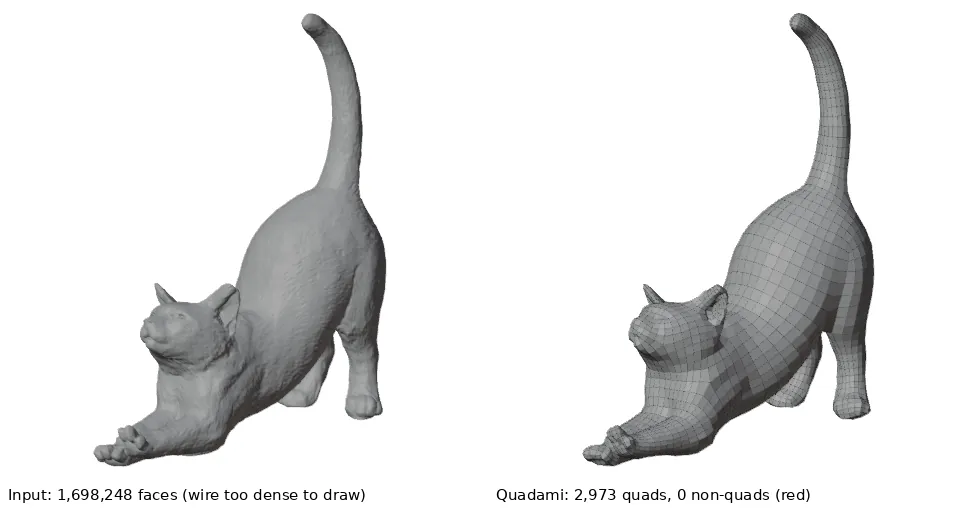
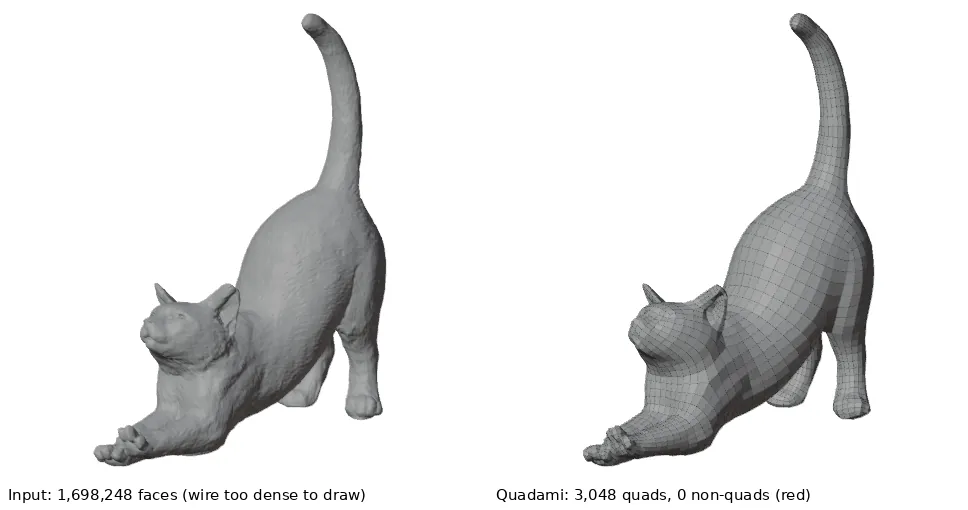
docs(docs): gallery rebuilt on master 6152d16; spike tips in the 0.2.0 limits
Claude-Session: https://claude.ai/code/session_01GKUM9k3d9aWsqNKJYnxYLx

diff --git a/docs/gallery/README.md b/docs/gallery/README.md
@@ -18,23 +18,23 @@ or pentagons, and a brush-folded spot is smoothed over rather than kept. The
 
 <!-- gallery-table:begin (generated by tools/gallery/gallery.py) -->
 
-Generated from `origin/master` = `91f3c48` by `tools/gallery/gallery.py`, Quality resolution, default settings unless noted, on x86_64 with 4 cores (time is wall time of the plain input there; a laptop differs). Columns after the bar: range over the plain input and 4 inputs moved by one float32 ulp, as Blender hands them over (the noise rule in tools/bench/README.md). Shape error: 99th percentile of the distance from the input to the output, in % of the input's diagonal (tools/bench/metrics.py; the panel does not show it).
+Generated from `master` = `6152d16` by `tools/gallery/gallery.py`, Quality resolution, default settings unless noted, on x86_64 with 4 cores (time is wall time of the plain input there; a laptop differs). Columns after the bar: range over the plain input and 4 inputs moved by one float32 ulp, as Blender hands them over (the noise rule in tools/bench/README.md). Shape error: 99th percentile of the distance from the input to the output, in % of the input's diagonal (tools/bench/metrics.py; the panel does not show it).
 
 | Mesh | Target | Quads | Non-quads | Folded faces | Holes | Time | Quads over 5 | Non-quads over 5 | Folded over 5 | Holes over 5 | Shape error over 5 |
 |---|---:|---:|---:|---:|---:|---:|---:|---:|---:|---:|---:|
-| [Spot (clean organic)](#spot-clean-organic) | 2,000 | 2,029 | 0 | 0 | 0 | 1.2 s | 2,029 | 0 | 0 | 0 | 0.1 % |
-| [Koala (organic sculpt)](#koala-organic-sculpt) | 3,000 | 2,962 | 0 | 0 | 0 | 2.9 s | 2,902-2,996 | 0 | 0 | 0 | 0.0 % |
-| [Wing nut (hard surface)](#wing-nut-hard-surface) | 2,000 | 2,024 | 0 | 0 | 0 | 0.9 s | 2,024 | 0 | 0 | 0 | 0.0 % |
-| [Boat (panels and sharp rims)](#boat-panels-and-sharp-rims) | 3,000 | 3,013 | 6 | 3 | 0 | 3.3 s | 2,979-3,030 | 0-6 | 0-3 | 0 | 0.0 % |
-| [Demosthenes (photoscan, open base)](#demosthenes-photoscan-open-base) | 5,000 | 5,010 | 0 | 0 | n/a (open) | 5.6 s | 4,950-5,010 | 0 | 0-8 | 0 | 0.1 % |
-| [Dyntopo sculpt (procedural)](#dyntopo-sculpt-procedural) | 5,000 | 4,894 | 0 | 0 | 0 | 7.1 s | 4,894-5,076 | 0 | 0 | 0 | 0.0 % |
-| [Sculpted box with folded input](#sculpted-box-with-folded-input) | 2,000 | 1,929 | 0 | 1 | 0 | 2.1 s | 1,929-1,982 | 0 | 1-3 | 0 | 0.2 % |
-| [Same box, Repair Folds on](#same-box-repair-folds-on) | 2,000 | 1,963 | 0 | 0 | 0 | 2.6 s | 1,957-1,972 | 0 | 0 | 0 | 0.2 % |
-| [Arming sword at 1,000 quads (thin parts)](#arming-sword-at-1000-quads-thin-parts) | 1,000 | 831 | 0 | 10 | 0 | 1.9 s | 820-883 | 0 | 3-29 | 0 | 2.0 %-8.1 % |
-| [Same sword at 3,000 quads](#same-sword-at-3000-quads) | 3,000 | 2,846 | 0 | 11 | 0 | 3.9 s | 2,825-2,887 | 0 | 10-14 | 0 | 1.0 %-1.1 % |
-| [Cat (dense sculpt, 1.7M triangles)](#cat-dense-sculpt-17m-triangles) | 3,000 | 2,973 | 0 | 0 | 0 | 12.4 s | 2,925-3,082 | 0 | 0 | 0 | 0.1 % |
-| [Hammer (raw scan)](#hammer-raw-scan) | 3,000 | 2,946 | 0 | 0 | 0 | 1.9 s | 2,938-2,954 | 0 | 0 | 0 | 0.0 % |
-| [Plane (thin wings)](#plane-thin-wings) | 3,000 | 3,030 | 0 | 0 | 0 | 1.4 s | 3,030 | 0 | 0 | 0 | 0.0 % |
+| [Spot (clean organic)](#spot-clean-organic) | 2,000 | 2,029 | 0 | 0 | 0 | 1.7 s | 2,029 | 0 | 0 | 0 | 0.1 % |
+| [Koala (organic sculpt)](#koala-organic-sculpt) | 3,000 | 2,962 | 0 | 0 | 0 | 3.6 s | 2,902-2,996 | 0 | 0 | 0 | 0.0 % |
+| [Wing nut (hard surface)](#wing-nut-hard-surface) | 2,000 | 1,974 | 0 | 0 | 0 | 1.1 s | 1,974 | 0 | 0 | 0 | 0.0 % |
+| [Boat (panels and sharp rims)](#boat-panels-and-sharp-rims) | 3,000 | 2,984 | 0 | 0 | 0 | 3.9 s | 2,984-3,037 | 0-6 | 0-3 | 0 | 0.0 % |
+| [Demosthenes (photoscan, open base)](#demosthenes-photoscan-open-base) | 5,000 | 5,025 | 0 | 0 | n/a (open) | 6.7 s | 4,829-5,066 | 0 | 0-8 | 0 | 0.1 % |
+| [Dyntopo sculpt (procedural)](#dyntopo-sculpt-procedural) | 5,000 | 5,009 | 0 | 0 | 0 | 9.8 s | 4,961-5,095 | 0 | 0 | 0 | 0.0 % |
+| [Sculpted box with folded input](#sculpted-box-with-folded-input) | 2,000 | 1,923 | 0 | 1 | 0 | 3.0 s | 1,872-1,926 | 0 | 0-4 | 0 | 0.2 % |
+| [Same box, Repair Folds on](#same-box-repair-folds-on) | 2,000 | 2,028 | 0 | 1 | 0 | 3.6 s | 2,022-2,060 | 0 | 1-2 | 0 | 0.2 % |
+| [Arming sword at 1,000 quads (thin parts)](#arming-sword-at-1000-quads-thin-parts) | 1,000 | 785 | 0 | 16 | 0 | 2.6 s | 785-849 | 0-20 | 6-18 | 0 | 2.1 %-6.0 % |
+| [Same sword at 3,000 quads](#same-sword-at-3000-quads) | 3,000 | 2,841 | 0 | 5 | 0 | 5.0 s | 2,841-2,952 | 0-2 | 5-17 | 0 | 1.0 %-1.2 % |
+| [Cat (dense sculpt, 1.7M triangles)](#cat-dense-sculpt-17m-triangles) | 3,000 | 3,048 | 0 | 0 | 0 | 16.1 s | 2,985-3,088 | 0 | 0 | 0 | 0.1 % |
+| [Hammer (raw scan)](#hammer-raw-scan) | 3,000 | 2,946 | 0 | 0 | 0 | 3.2 s | 2,938-2,954 | 0 | 0 | 0 | 0.0 % |
+| [Plane (thin wings)](#plane-thin-wings) | 3,000 | 3,041 | 0 | 0 | 0 | 2.2 s | 3,041 | 0 | 0 | 0 | 0.0 % |
 
 ### Spot (clean organic)
 
@@ -62,7 +62,7 @@ Panel rows flagged: none.
 
 ![Boat (panels and sharp rims): input left, Quadami output right](img/boat.webp)
 
-Panel rows flagged: Non-quads: 6; Folded faces: 3.
+Panel rows flagged: none.
 
 > Panel: Folded input: 4 faces in 2 spots, where the surface folds over itself. The quads there may come out messy or with holes.
 
@@ -73,7 +73,7 @@ Panel rows flagged: Non-quads: 6; Folded faces: 3.
 Panel rows flagged: Handles: 3 lost.
 
 > Panel: Output has 3 handles fewer than the input (tunnels or loops closed up, on 1 island): handles only a few quads around close up. A higher Target Quads keeps more of them
-> Panel: 1 % of the surface (17 spots) is thinner than one quad; expect folds or lost parts there. At least 11000 target quads (an estimate) would fit a quad across about half of it, but each raise also reveals thinner parts, so it can take several raises; thickening those parts is usually the better fix
+> Panel: 1 % of the surface (20 spots) is thinner than one quad at 5000 target quads, a limit of Target Quads rather than a remeshing error: expect folds or lost parts there. At least 11000 target quads (an estimate) would fit a quad across about half of it, but each raise also reveals thinner parts, so it can take several raises; thickening those parts also works
 > Panel: To thicken a part: Tab into Edit Mode, select it, press Alt+S (Shrink/Fatten) and move the mouse outwards.
 > Panel: Folded input: 500 faces in 364 spots, where the surface folds over itself. The quads there may come out messy or with holes.
 
@@ -91,8 +91,8 @@ Panel rows flagged: none.
 
 Panel rows flagged: Folded faces: 1; Missing parts: up to 3 quad widths.
 
-> Panel: Parts of the model are missing in the result (up to 3 quad widths away). Thin parts need about two quads across: raise Target Quads.
-> Panel: 4 % of the surface (4 spots) is thinner than one quad; expect folds or lost parts there. At least 9800 target quads (an estimate) would fit a quad across about half of it, but each raise also reveals thinner parts, so it can take several raises; thickening those parts is usually the better fix
+> Panel: Parts that are not thinner than a quad are missing (up to 3 quad widths away), so Target Quads may not be the cause. If raising it does not bring them back, please report it.
+> Panel: 4 % of the surface (4 spots) is thinner than one quad at 2000 target quads, a limit of Target Quads rather than a remeshing error: expect folds or lost parts there. At least 9800 target quads (an estimate) would fit a quad across about half of it, but each raise also reveals thinner parts, so it can take several raises; thickening those parts also works
 > Panel: To thicken a part: Tab into Edit Mode, select it, press Alt+S (Shrink/Fatten) and move the mouse outwards.
 > Panel: Folded input: 91 faces in 26 spots, where the surface folds over itself. The quads there may come out messy or with holes.
 
@@ -100,7 +100,7 @@ Panel rows flagged: Folded faces: 1; Missing parts: up to 3 quad widths.
 
 ![Same box, Repair Folds on: input left, Quadami output right](img/brush_box_relief_repair.webp)
 
-Panel rows flagged: Folds left: 16 faces in 14 spots.
+Panel rows flagged: Folded faces: 1; Folds left: 16 faces in 14 spots.
 
 > Panel: 16 folded faces in 14 spots could not be repaired safely and were left as they were.
 
@@ -108,10 +108,10 @@ Panel rows flagged: Folds left: 16 faces in 14 spots.
 
 ![Arming sword at 1,000 quads (thin parts): input left, Quadami output right](img/sword.webp)
 
-Panel rows flagged: Folded faces: 10; Missing parts: up to 10 quad widths.
+Panel rows flagged: Folded faces: 16; Missing parts: up to 5 quad widths.
 
-> Panel: Parts of the model are missing in the result (up to 10 quad widths away). Thin parts need about two quads across: raise Target Quads.
-> Panel: 74 % of the surface (4 spots) is thinner than one quad; expect folds or lost parts there. At least 7600 target quads (an estimate) would fit a quad across about half of it, but each raise also reveals thinner parts, so it can take several raises; thickening those parts is usually the better fix
+> Panel: Parts thinner than one quad are missing (up to 5 quad widths away). At 1000 target quads there is no room for them: a limit of Target Quads, not a remeshing error. Raise Target Quads (1.5 to 8 times as many brought such parts back on most test models), though each raise can show finer parts still too thin; or thicken them.
+> Panel: 75 % of the surface (2 spots) is thinner than one quad at 1000 target quads, a limit of Target Quads rather than a remeshing error: expect folds or lost parts there. At least 7600 target quads (an estimate) would fit a quad across about half of it, but each raise also reveals thinner parts, so it can take several raises; thickening those parts also works
 > Panel: To thicken a part: Tab into Edit Mode, select it, press Alt+S (Shrink/Fatten) and move the mouse outwards.
 > Panel: Folded input: 110 faces in 69 spots, where the surface folds over itself. The quads there may come out messy or with holes.
 
@@ -119,9 +119,9 @@ Panel rows flagged: Folded faces: 10; Missing parts: up to 10 quad widths.
 
 ![Same sword at 3,000 quads: input left, Quadami output right](img/sword_3k.webp)
 
-Panel rows flagged: Folded faces: 11.
+Panel rows flagged: Folded faces: 5.
 
-> Panel: 68 % of the surface (4 spots) is thinner than one quad; expect folds or lost parts there. At least 12000 target quads (an estimate) would fit a quad across about half of it, but each raise also reveals thinner parts, so it can take several raises; thickening those parts is usually the better fix
+> Panel: 68 % of the surface (4 spots) is thinner than one quad at 3000 target quads, a limit of Target Quads rather than a remeshing error: expect folds or lost parts there. At least 12000 target quads (an estimate) would fit a quad across about half of it, but each raise also reveals thinner parts, so it can take several raises; thickening those parts also works
 > Panel: To thicken a part: Tab into Edit Mode, select it, press Alt+S (Shrink/Fatten) and move the mouse outwards.
 > Panel: Folded input: 110 faces in 69 spots, where the surface folds over itself. The quads there may come out messy or with holes.
 
@@ -147,7 +147,7 @@ Panel rows flagged: none.
 
 Panel rows flagged: none.
 
-> Panel: 10 % of the surface (19 spots) is thinner than one quad; expect folds or lost parts there. At least 4500 target quads (an estimate) would fit a quad across about half of it, but each raise also reveals thinner parts, so it can take several raises; thickening those parts is usually the better fix
+> Panel: 10 % of the surface (19 spots) is thinner than one quad at 3000 target quads, a limit of Target Quads rather than a remeshing error: expect folds or lost parts there. At least 4400 target quads (an estimate) would fit a quad across about half of it, but each raise also reveals thinner parts, so it can take several raises; thickening those parts also works
 > Panel: To thicken a part: Tab into Edit Mode, select it, press Alt+S (Shrink/Fatten) and move the mouse outwards.
 
 <!-- gallery-table:end -->

diff --git a/docs/releases/0.2.0.md b/docs/releases/0.2.0.md
@@ -83,7 +83,9 @@ New or changed since 0.1.0; the others are as in 0.1.0 (user guide §6).
   at times: on Blender's cube an edge loop now follows about 90 % of the edges at 5,000 quads (72 % at
   1,000), on the cylinder about 80 % of the rims (74 % at 1,000). A cone's base rim is mostly rounded
   off and its tip is cut off about one quad deep; with Follow Marks the cone's rim is followed at
-  5,000 quads but still rounded off at 1,000. The 90° change costs a
+  5,000 quads but still rounded off at 1,000. A sharp spike on a sculpt is cut off the same way, and
+  the **Missing parts** warning may then say the part is not thinner than a quad and ask for a
+  report (our sculpted test box; sharp tips are planned for 0.3). The 90° change costs a
   little elsewhere on our test sets: a box with a sculpted relief has about 12 folded quads
   instead of 4 at 5,000 quads, a rotated mechanical bracket loses a handle at 1,000 quads, a
   vine-covered sword more folded faces at 3,000 quads.
